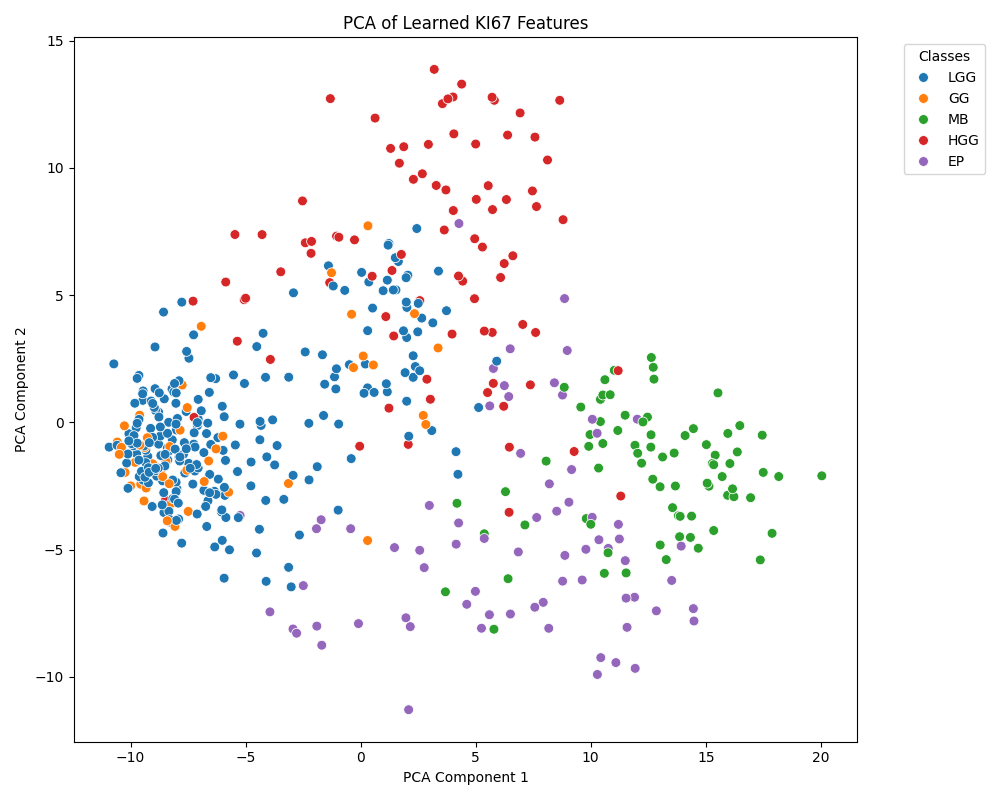
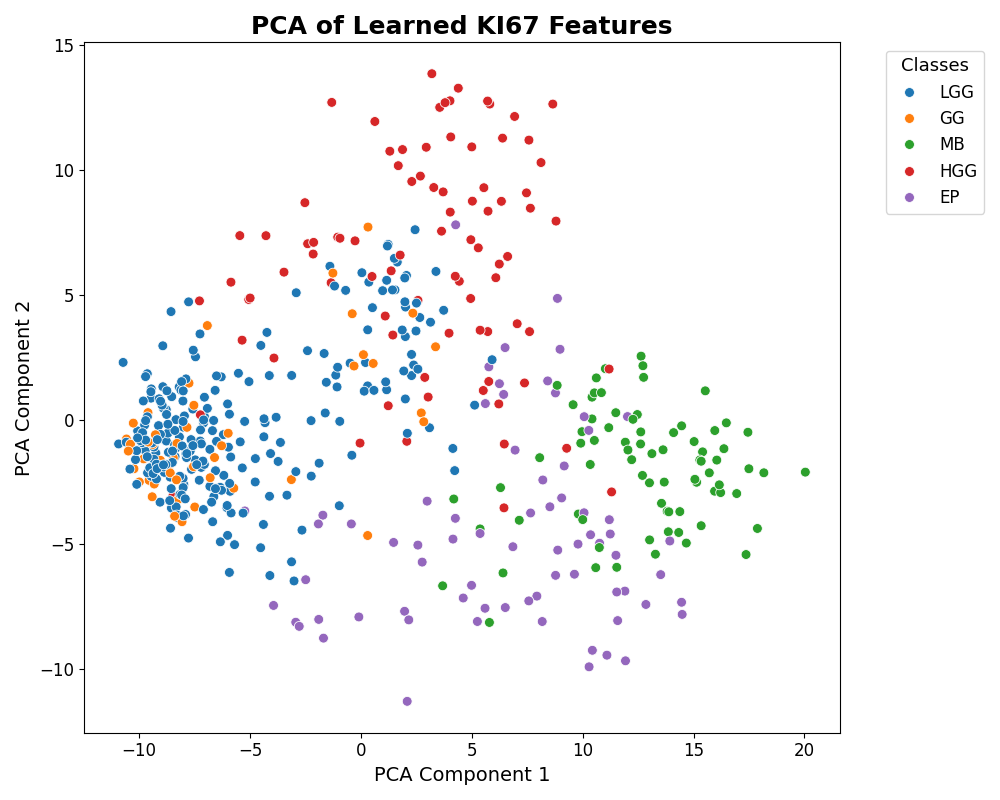
small updates

diff --git a/data_utilities/plot_feature_space.py b/data_utilities/plot_feature_space.py
@@ -7,6 +7,7 @@ import matplotlib.pyplot as plt
 from sklearn.manifold import TSNE
 from sklearn.decomposition import PCA
 import seaborn as sns
+import matplotlib.image as mpimg
 
 # %% UTILITY FUNCTIONS 
 def collect_features_and_labels(df, path_to_features, labels_to_include=None):
@@ -127,10 +128,11 @@ def plot_pca(features, labels, title, save_path, labels_to_include=None):
     
     plt.figure(figsize=(10, 8))
     sns.scatterplot(x=pca_result[:, 0], y=pca_result[:, 1], hue=labels, palette='tab10', s=50)
-    plt.title(title)
-    plt.xlabel('PCA Component 1')
-    plt.ylabel('PCA Component 2')
-    plt.legend(title='Classes', bbox_to_anchor=(1.05, 1), loc='upper left')
+    plt.title(title, fontsize=18, fontweight='bold')
+    plt.xlabel('PCA Component 1', fontsize=14)
+    plt.ylabel('PCA Component 2', fontsize=14)
+    plt.legend(title='Classes', bbox_to_anchor=(1.05, 1), loc='upper left', fontsize=12, title_fontsize=13)
+    plt.tick_params(axis='both', which='major', labelsize=12)
     plt.tight_layout()
     plt.savefig(save_path)
     plt.show()
@@ -146,10 +148,11 @@ def plot_tsne(features, labels, title, save_path, labels_to_include=None):
 
     plt.figure(figsize=(10, 8))
     sns.scatterplot(x=tsne_result[:, 0], y=tsne_result[:, 1], hue=labels, palette='tab10', s=50)
-    plt.title(title)
-    plt.xlabel('t-SNE Component 1')
-    plt.ylabel('t-SNE Component 2')
-    plt.legend(title='Classes', bbox_to_anchor=(1.05, 1), loc='upper left')
+    plt.title(title, fontsize=18, fontweight='bold')
+    plt.xlabel('t-SNE Component 1', fontsize=14)
+    plt.ylabel('t-SNE Component 2', fontsize=14)
+    plt.legend(title='Classes', bbox_to_anchor=(1.05, 1), loc='upper left', fontsize=12, title_fontsize=13)
+    plt.tick_params(axis='both', which='major', labelsize=12)
     plt.tight_layout()
     plt.savefig(save_path)
     plt.show()
@@ -171,6 +174,18 @@ print(f"Unique labels: {np.unique(labels)}")
 plot_pca(features_matrix, labels, 'PCA of HE Features', 'PCA_HE_features.png')
 plot_tsne(features_matrix, labels, 't-SNE of HE Features', 'tSNE_HE_features.png')
 
+pca_img = mpimg.imread('/local/data1/chrsp39/CBTN_Histology_Multi_Stain/data_utilities/PCA_HE_features.png')
+tsne_img = mpimg.imread('/local/data1/chrsp39/CBTN_Histology_Multi_Stain/data_utilities/tSNE_HE_features.png')
+
+fig, axes = plt.subplots(1, 2, figsize=(16, 6))
+axes[0].imshow(pca_img)
+axes[0].axis('off')
+axes[1].imshow(tsne_img)
+axes[1].axis('off')
+plt.tight_layout()
+plt.savefig('/local/data1/chrsp39/CBTN_Histology_Multi_Stain/data_utilities/PCA_tSNE_HE_features.png', dpi=300, bbox_inches='tight')
+plt.show()
+
 # %% PCA and t-SNE PLOTS FOR KI67 FEATURES
 # csv file
 df = pd.read_csv('/local/data3/chrsp39/CBTN_v2/CSVs/Merged_HE_KI67_10_class_dataset.csv')
@@ -187,6 +202,18 @@ print(f"Unique labels: {np.unique(labels)}")
 
 plot_pca(features_matrix, labels, 'PCA of KI67 Features', 'PCA_KI67_features.png')
 plot_tsne(features_matrix, labels, 't-SNE of KI67 Features', 'tSNE_KI67_features.png')
+
+pca_img = mpimg.imread('/local/data1/chrsp39/CBTN_Histology_Multi_Stain/data_utilities/PCA_KI67_features.png')
+tsne_img = mpimg.imread('/local/data1/chrsp39/CBTN_Histology_Multi_Stain/data_utilities/tSNE_KI67_features.png')
+
+fig, axes = plt.subplots(1, 2, figsize=(16, 6))
+axes[0].imshow(pca_img)
+axes[0].axis('off')
+axes[1].imshow(tsne_img)
+axes[1].axis('off')
+plt.tight_layout()
+plt.savefig('/local/data1/chrsp39/CBTN_Histology_Multi_Stain/data_utilities/PCA_tSNE_KI67_features.png', dpi=300, bbox_inches='tight')
+plt.show()
 
 # %% PCA and t-SNE PLOTS FOR MERGED HE AND KI67 FEATURES
 # csv file
@@ -205,6 +232,18 @@ print(f"Unique labels: {np.unique(labels)}")
 plot_pca(features_matrix, labels, 'PCA of Merged HE & KI67 Features', 'PCA_MERGED_HE_KI67_features.png')
 plot_tsne(features_matrix, labels, 't-SNE of Merged HE & KI67 Features', 'tSNE_MERGED_HE_KI67_features.png')
 
+pca_img = mpimg.imread('/local/data1/chrsp39/CBTN_Histology_Multi_Stain/data_utilities/PCA_MERGED_HE_KI67_features.png')
+tsne_img = mpimg.imread('/local/data1/chrsp39/CBTN_Histology_Multi_Stain/data_utilities/tSNE_MERGED_HE_KI67_features.png')
+
+fig, axes = plt.subplots(1, 2, figsize=(16, 6))
+axes[0].imshow(pca_img)
+axes[0].axis('off')
+axes[1].imshow(tsne_img)
+axes[1].axis('off')
+plt.tight_layout()
+plt.savefig('/local/data1/chrsp39/CBTN_Histology_Multi_Stain/data_utilities/PCA_tSNE_MERGED_HE_KI67_features.png', dpi=300, bbox_inches='tight')
+plt.show()
+
 # %% PCA and t-SNE PLOTS FOR LEARNED HE FEATURES
 # csv file
 df = pd.read_csv('/local/data3/chrsp39/CBTN_v2/CSVs/Merged_HE_KI67_10_class_dataset.csv')
@@ -222,6 +261,17 @@ print(f"Unique labels: {np.unique(labels)}")
 plot_pca(features_matrix, labels, 'PCA of Learned HE Features', 'PCA_LEARNED_HE_features.png')
 plot_tsne(features_matrix, labels, 't-SNE of Learned HE Features', 'tSNE_LEARNED_HE_features.png')
 
+pca_img = mpimg.imread('/local/data1/chrsp39/CBTN_Histology_Multi_Stain/data_utilities/PCA_LEARNED_HE_features.png')
+tsne_img = mpimg.imread('/local/data1/chrsp39/CBTN_Histology_Multi_Stain/data_utilities/tSNE_LEARNED_HE_features.png')
+
+fig, axes = plt.subplots(1, 2, figsize=(16, 6))
+axes[0].imshow(pca_img)
+axes[0].axis('off')
+axes[1].imshow(tsne_img)
+axes[1].axis('off')
+plt.tight_layout()
+plt.savefig('/local/data1/chrsp39/CBTN_Histology_Multi_Stain/data_utilities/PCA_tSNE_LEARNED_HE_features.png', dpi=300, bbox_inches='tight')
+plt.show()
 # %% PCA and t-SNE PLOTS FOR LEARNED KI67 FEATURES
 # csv file
 df = pd.read_csv('/local/data3/chrsp39/CBTN_v2/CSVs/Merged_HE_KI67_10_class_dataset.csv')
@@ -238,5 +288,17 @@ print(f"Unique labels: {np.unique(labels)}")
 
 plot_pca(features_matrix, labels, 'PCA of Learned KI67 Features', 'PCA_LEARNED_KI67_features.png')
 plot_tsne(features_matrix, labels, 't-SNE of Learned KI67 Features', 'tSNE_LEARNED_KI67_features.png')
+
+pca_img = mpimg.imread('/local/data1/chrsp39/CBTN_Histology_Multi_Stain/data_utilities/PCA_LEARNED_KI67_features.png')
+tsne_img = mpimg.imread('/local/data1/chrsp39/CBTN_Histology_Multi_Stain/data_utilities/tSNE_LEARNED_KI67_features.png')
+
+fig, axes = plt.subplots(1, 2, figsize=(16, 6))
+axes[0].imshow(pca_img)
+axes[0].axis('off')
+axes[1].imshow(tsne_img)
+axes[1].axis('off')
+plt.tight_layout()
+plt.savefig('/local/data1/chrsp39/CBTN_Histology_Multi_Stain/data_utilities/PCA_tSNE_LEARNED_KI67_features.png', dpi=300, bbox_inches='tight')
+plt.show()
 
 # %%
